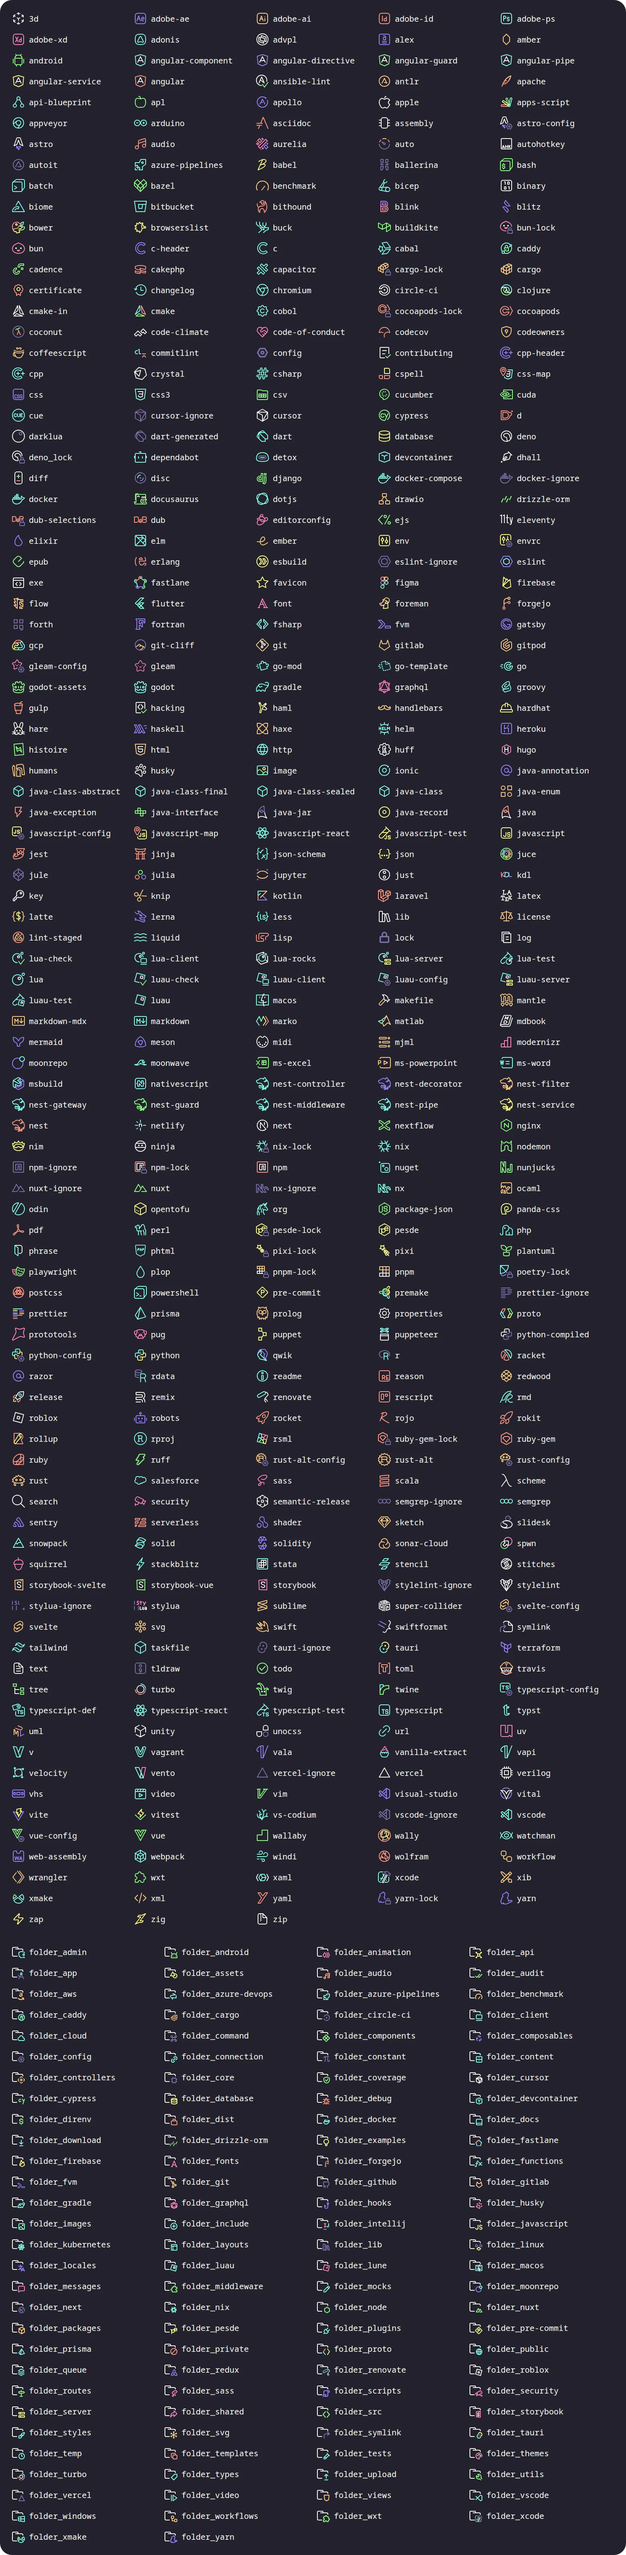
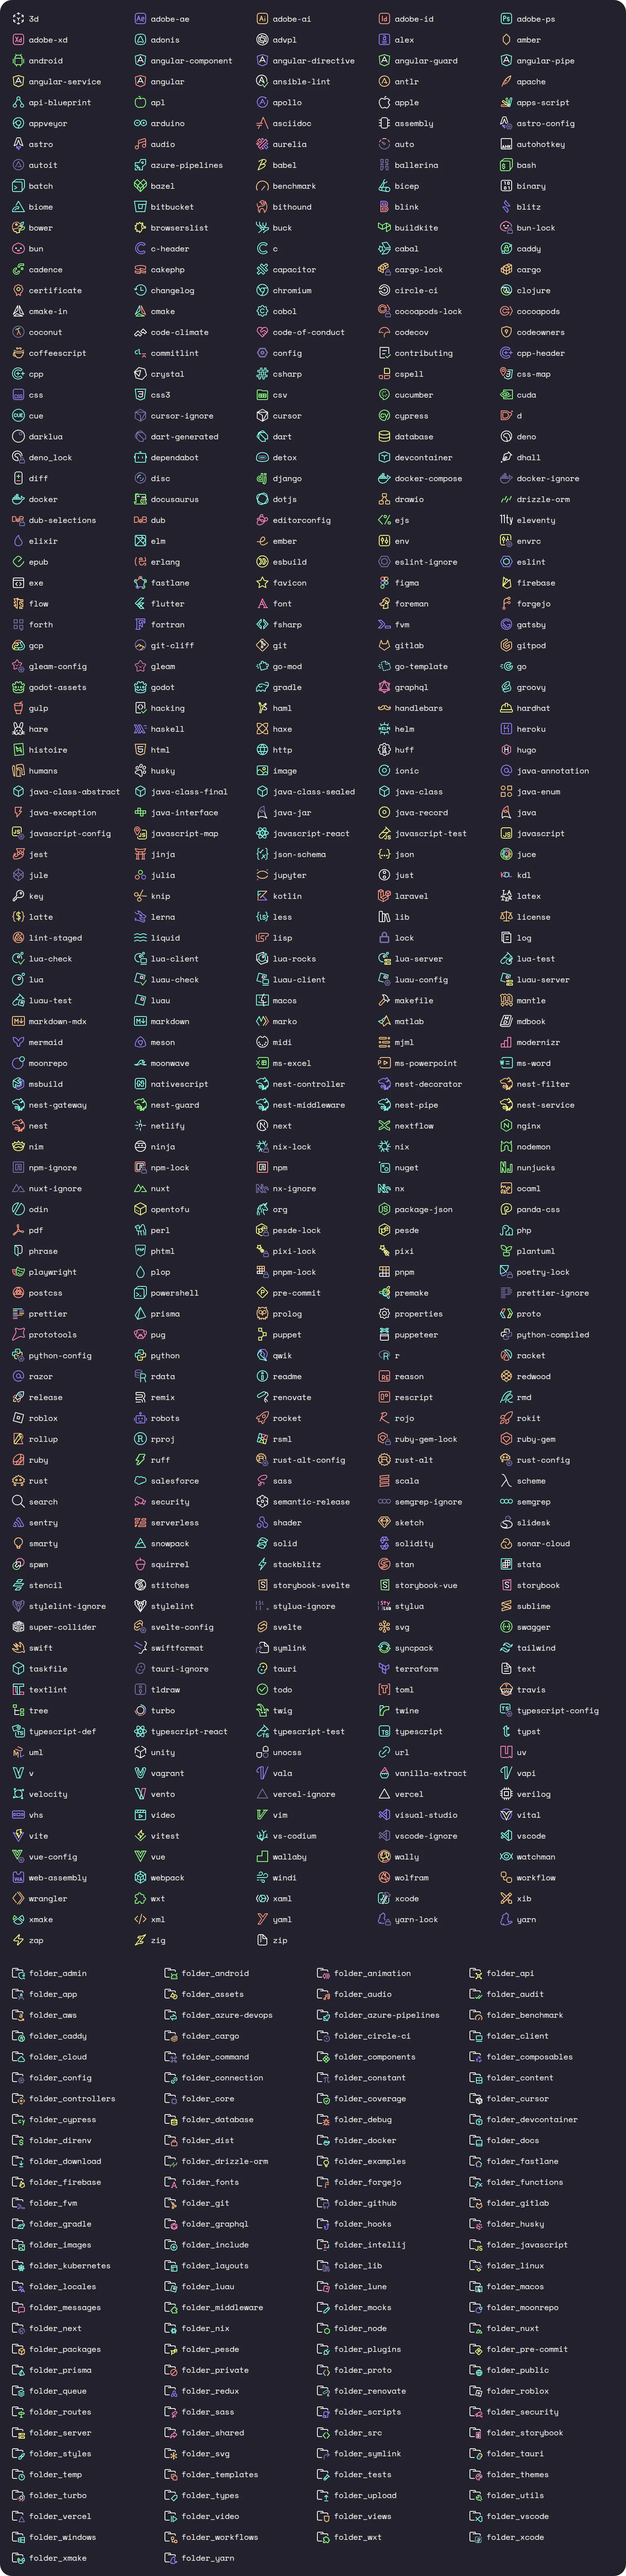
+5 iconos 8.

diff --git a/src/defaults/fileIcons.ts b/src/defaults/fileIcons.ts
@@ -2544,6 +2544,10 @@ const fileIcons: FileIcons = {
     languageIds: ['sdf'],
     fileExtensions: ['sdf', 'sdt'],
   },
+  'smarty': {
+    languageIds: ['smarty'],
+    fileExtensions: ['tpl'],
+  },
   'snowpack': {
     fileNames: [
       'snowpack.config.js',
@@ -2576,6 +2580,10 @@ const fileIcons: FileIcons = {
   },
   'stackblitz': {
     fileNames: ['.stackblitzrc'],
+  },
+  'stan': {
+    languageIds: ['stan'],
+    fileExtensions: ['stan'],
   },
   'stata': {
     fileExtensions: ['ado', 'do', 'dta'],
@@ -2675,12 +2683,28 @@ const fileIcons: FileIcons = {
     languageIds: ['svg'],
     fileExtensions: ['svg'],
   },
+  'swagger': {
+    fileExtensions: ['swagger.json', 'swagger.yml', 'swagger.yaml'],
+    fileNames: ['swagger.json', 'swagger.yml', 'swagger.yaml'],
+  },
   'swift': {
     languageIds: ['swift'],
     fileExtensions: ['swift'],
   },
   'swiftformat': {
     fileNames: ['.swiftformat'],
+  },
+  'syncpack': {
+    fileNames: [
+      '.syncpackrc',
+      'syncpackrc.json',
+      '.syncpackrc.yaml',
+      '.syncpackrc.yml',
+      '.syncpackrc.js',
+      '.syncpackrc.cjs',
+      'syncpack.config.js',
+      'syncpack.config.cjs',
+    ],
   },
   'tailwind': {
     fileNames: [
@@ -2732,6 +2756,15 @@ const fileIcons: FileIcons = {
   'text': {
     languageIds: ['plaintext'],
     fileExtensions: ['txt'],
+  },
+  'textlint': {
+    fileNames: [
+      '.textlintrc',
+      '.textlintrc.js',
+      '.textlintrc.json',
+      '.textlintrc.yml',
+      '.textlintrc.yaml',
+    ],
   },
   'tldraw': {
     fileExtensions: ['tldr'],
